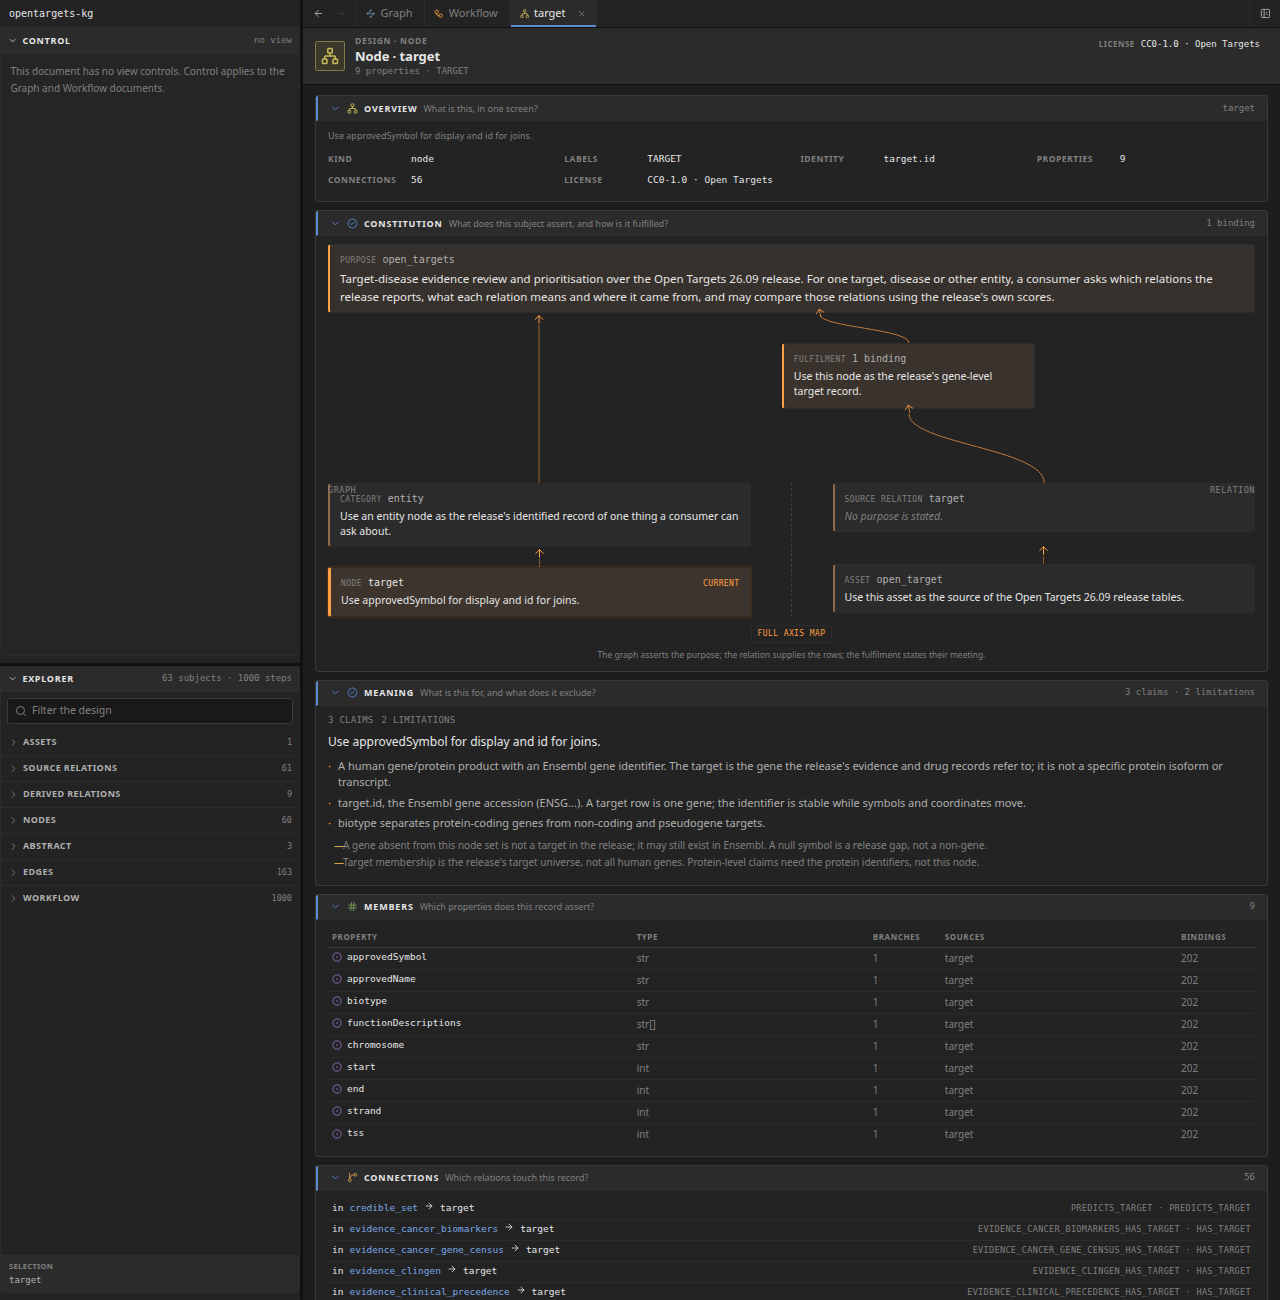
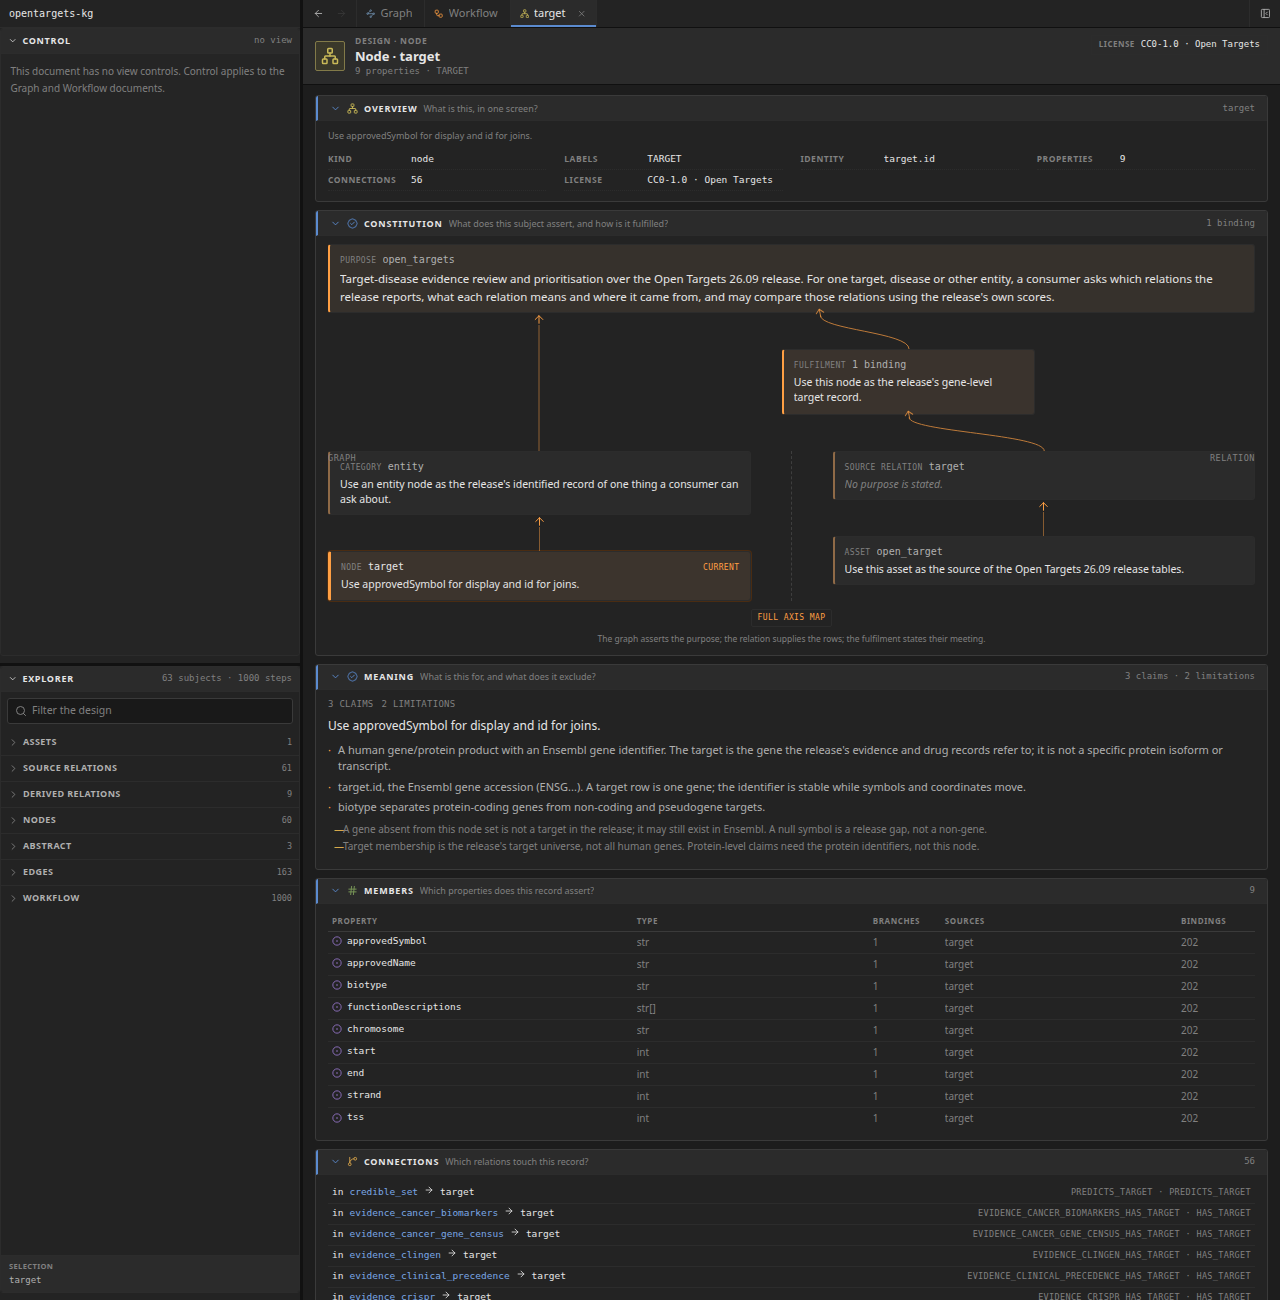
Give the constitution one vertical rhythm

diff --git a/viewer/shared/design/design.module.css b/viewer/shared/design/design.module.css
@@ -279,7 +279,6 @@
   display: grid;
   grid-template-columns: repeat(2, minmax(0, 1fr));
   column-gap: 14px;
-  padding-top: 12px;
 }
 
 .constitutionChildren[data-count="1"] {
@@ -422,7 +421,7 @@ button.constitutionName:focus-visible {
   display: grid;
   grid-template-columns: minmax(0, 1fr) 46px minmax(0, 1fr);
   column-gap: 18px;
-  height: 170px;
+  height: 138px;
 }
 
 .constitutionFulfilmentCell {
@@ -446,7 +445,7 @@ button.constitutionName:focus-visible {
   bottom: 100%;
   left: 50%;
   display: flex;
-  height: 170px;
+  height: 138px;
   flex-direction: column;
   align-items: center;
   color: var(--color-selection);
@@ -472,7 +471,7 @@ button.constitutionName:focus-visible {
   bottom: 100%;
   left: 0;
   width: 100%;
-  height: 74px;
+  height: 36px;
 }
 
 .constitutionRelationRise .constitutionCurve {
@@ -482,7 +481,7 @@ button.constitutionName:focus-visible {
 .constitutionCurve {
   position: relative;
   width: 100%;
-  height: 30px;
+  height: 36px;
   color: var(--color-selection);
 }
 
@@ -546,7 +545,7 @@ button.constitutionName:focus-visible {
 
 .constitutionArrow {
   display: flex;
-  height: 20px;
+  height: 36px;
   flex-direction: column;
   align-items: center;
   justify-content: flex-start;
@@ -621,6 +620,7 @@ button.constitutionName:focus-visible {
   .constitutionFulfilmentRow {
     display: block;
     height: auto;
+    margin: 36px 0;
   }
 
   .constitutionRowSpacer {
@@ -643,7 +643,7 @@ button.constitutionName:focus-visible {
 
   .constitutionBranches {
     grid-template-columns: minmax(0, 1fr);
-    row-gap: 12px;
+    row-gap: 36px;
   }
 
   .constitutionRise,
@@ -667,7 +667,6 @@ button.constitutionName:focus-visible {
   .constitutionChildren {
     grid-template-columns: minmax(0, 1fr);
     row-gap: 0;
-    padding-top: 8px;
   }
 
   .constitutionChildren::before {

diff --git a/viewer/shared/design/Constitution.tsx b/viewer/shared/design/Constitution.tsx
@@ -212,8 +212,8 @@ function Branch({
  *
  * The fulfilment box sits on the right side above the separator; the separator
  * starts below it so the graph and relation axes lie below. The arrow from
- * fulfilment to purpose and the long arrow from the relation to fulfilment
- * both bend left. Hovering or focusing a box reveals its full meaning in a
+ * fulfilment to purpose and the arrow from the relation to fulfilment both
+ * bend left. Hovering or focusing a box reveals its full meaning in a
  * portal, because the band clips overflow.
  */
 export function Constitution({

diff --git a/viewer/DETAIL_CONTENT.md b/viewer/DETAIL_CONTENT.md
@@ -88,10 +88,12 @@ to.
 - **Fulfilment** is the box on the right side, above the relation axis and
   slightly inset from it. It is not part of either axis. The separator starts
   below it, so the axes lie below the separator and Fulfilment above it. Its
-  arrow to the purpose and the relation's long arrow to it both bend left. It
-  states the binding count; identity fields and coverage appear when the box
-  has room and always in the full axis map. The graph asserts, the relation supplies, and the
-  Fulfilment box states their meeting.
+  arrow to the purpose and the relation's arrow to it both bend left. Every
+  stacked item uses the same vertical gap; the Fulfilment box is one gap below
+  the purpose and one gap above the axes. It states the binding count; identity
+  fields and coverage appear when the box has room and always in the full axis
+  map. The graph asserts, the relation supplies, and the Fulfilment box states
+  their meeting.
 - A branch with many records, relations or assets shows the first item and
   `+N`, so the card stays compact. **Full axis map** expands the same data into
   the three-column records / fulfilment / relations view.

diff --git a/viewer/DESIGN_LANGUAGE.md b/viewer/DESIGN_LANGUAGE.md
@@ -85,8 +85,10 @@ A kind includes or omits a section; it never renames one for itself.
   property; the Relation branch is the relation axis. The Fulfilment box sits
   on the right side above the separator; the separator starts below it so the
   axes lie below the separator. Fulfilment is slightly inset above the relation
-  axis; its arrow to the purpose and the relation's long arrow to it both bend
-  left. The relation axis carries its provenance branches below its relation. Each box states only
+  axis; its arrow to the purpose and the relation's arrow to it both bend left.
+  Every stacked item uses the same vertical gap, including the gap below the
+  Fulfilment box and the gap to the axes. The relation axis carries its
+  provenance branches below its relation. Each box states only
   its own purpose and clamps; arrows point up to the level it is accountable
   to. Hovering or focusing a box reveals its full meaning in a
   portal card; a box label opens that level's document. A grouped branch shows
